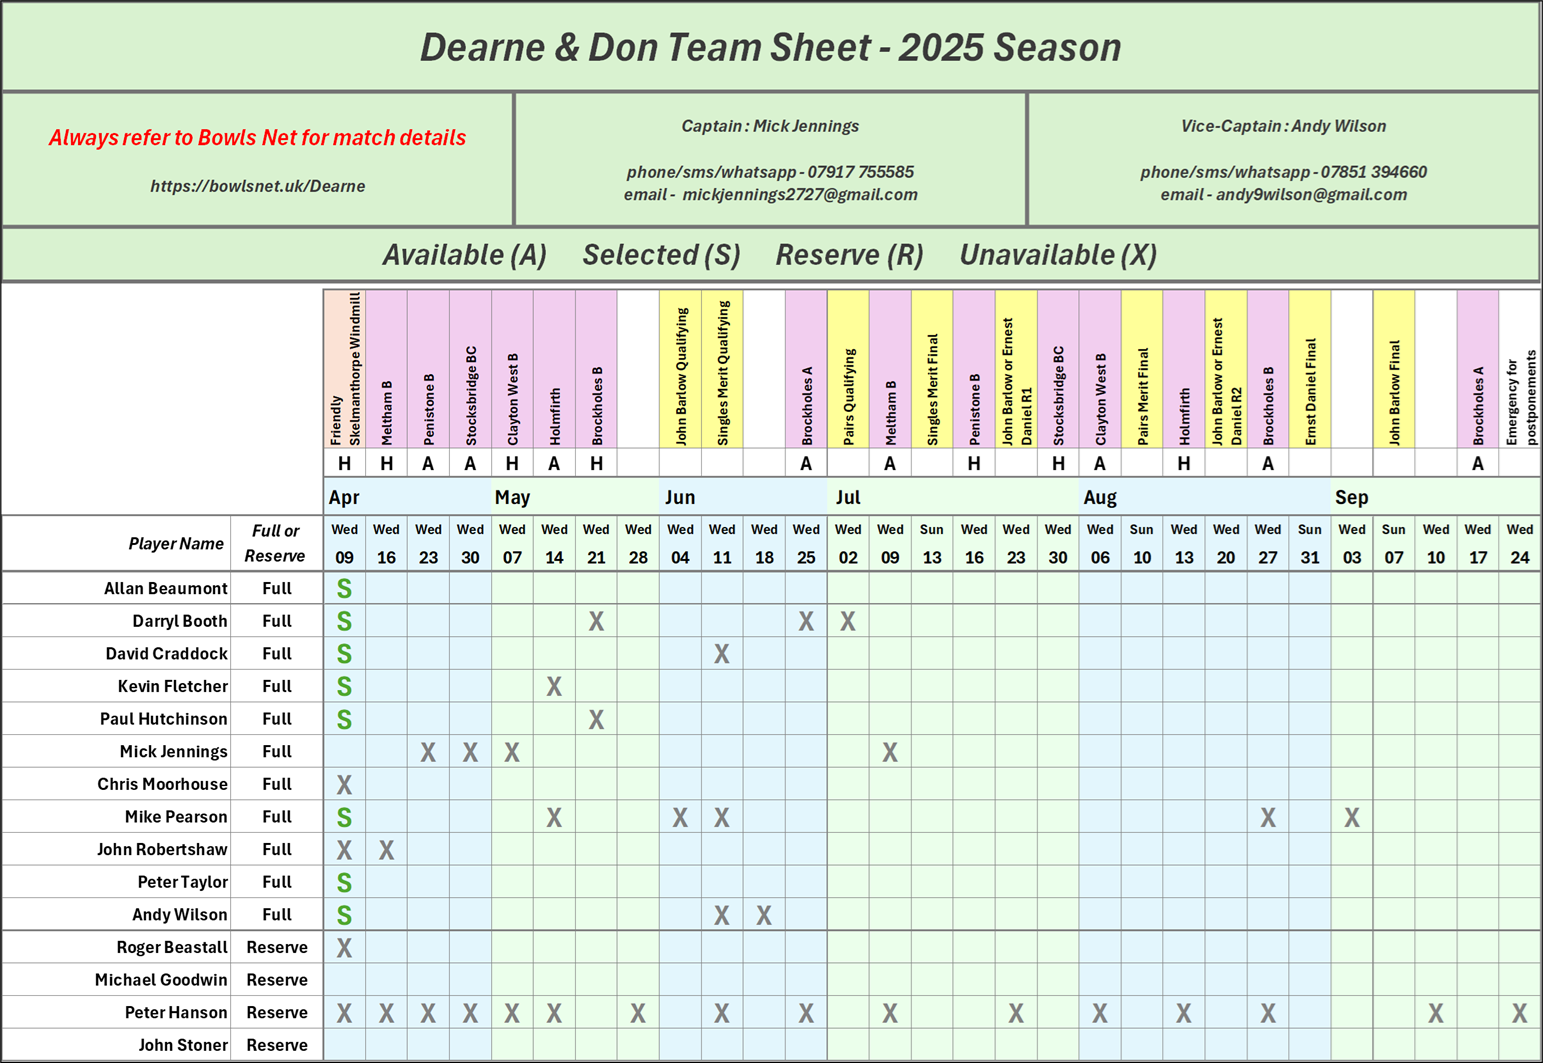
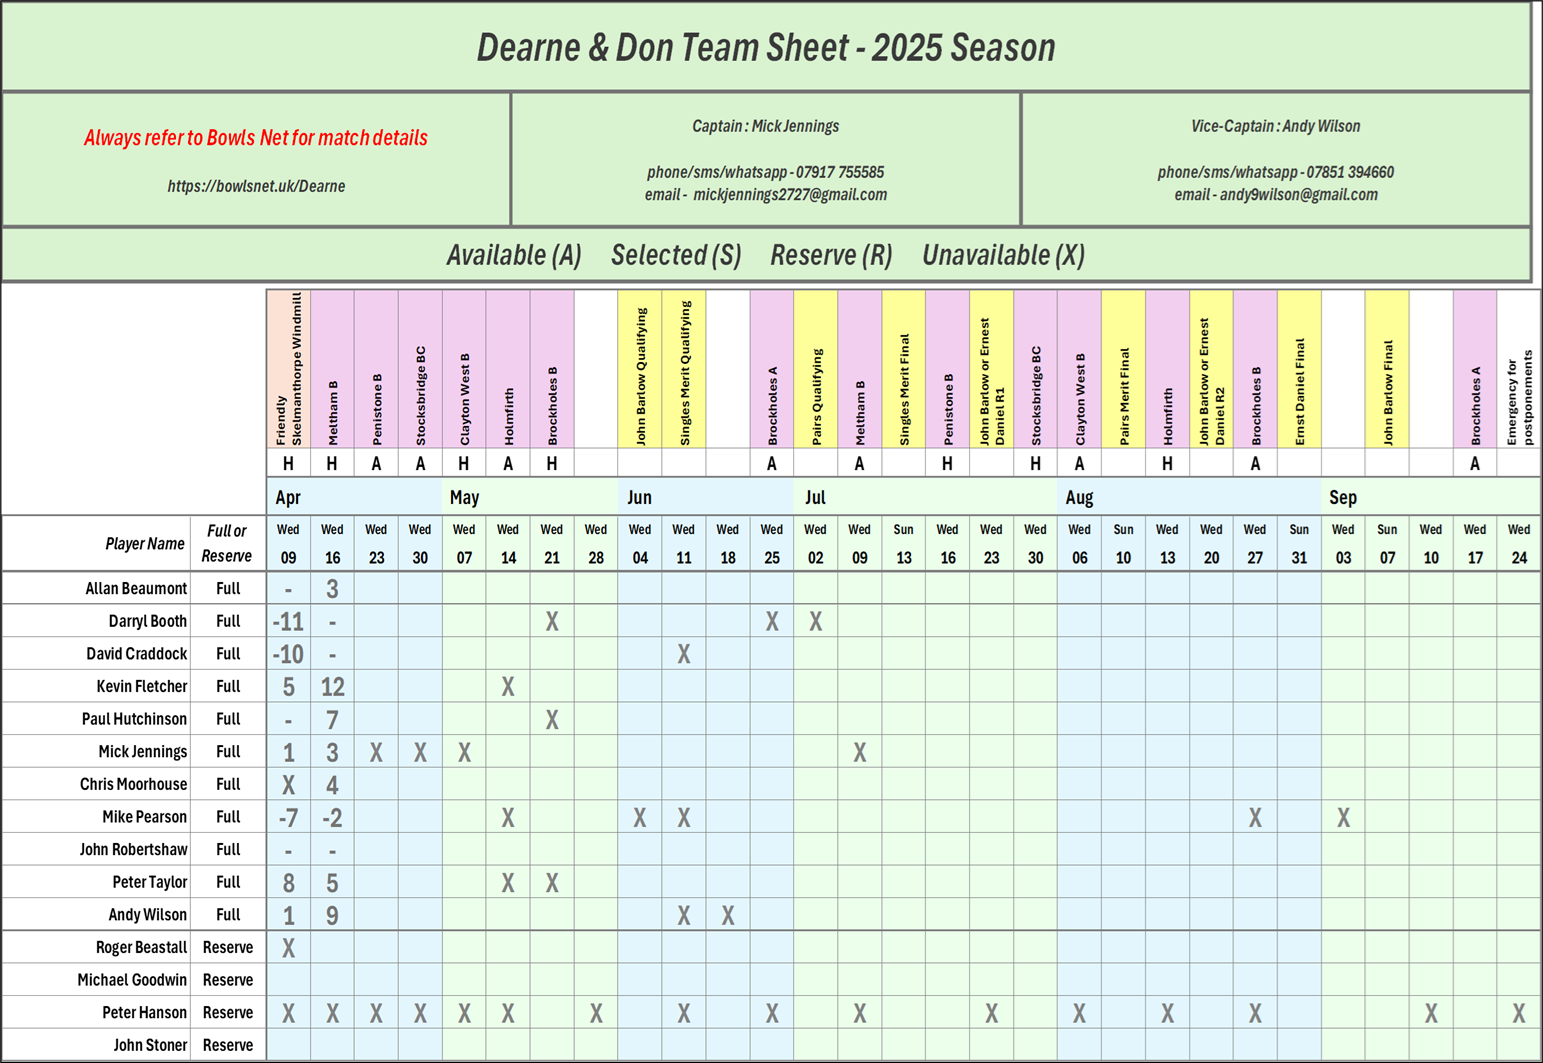
Dearne Update

diff --git a/Dearne.htm b/Dearne.htm
@@ -45,8 +45,6 @@
                     Places 1 to 4 will be selected based on current form, ie the top average scores in the last 3 games.
                     Places 5 to 8 will be rotated through the team.
                 </p>
-            <h3>Friendly against Skelmanthorpe Windmill 9th April</h3>
-                <img src="media/DaD/Team Sheet.png" alt="DDBC Dearne and Don Team Sheet">
 
         </div>
 
